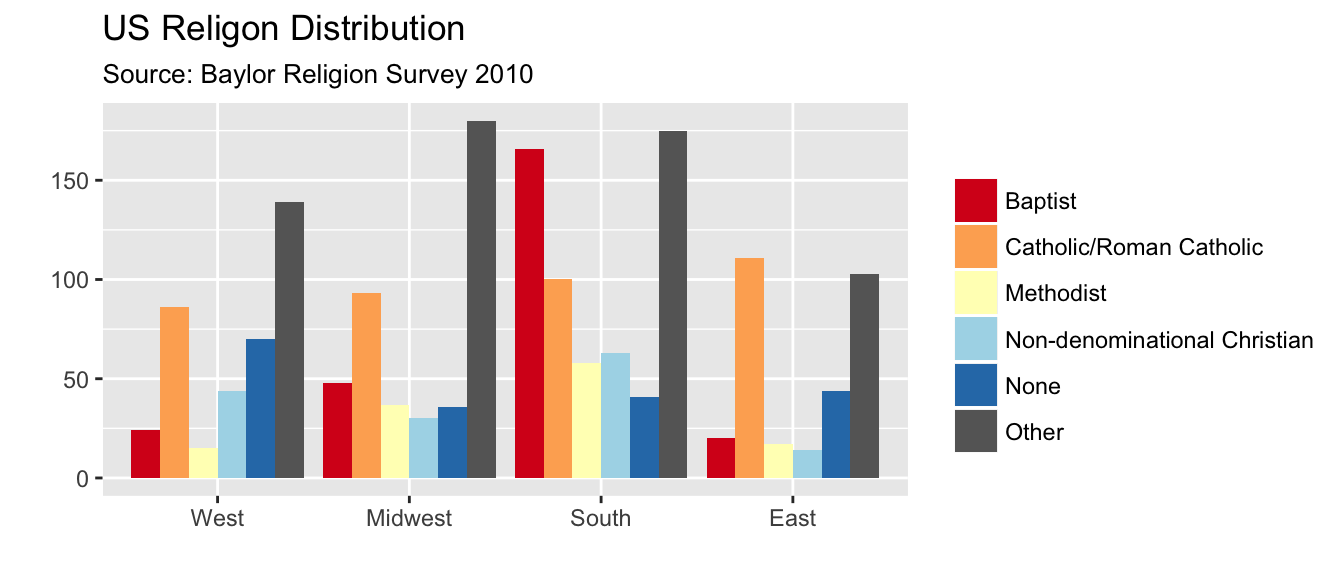
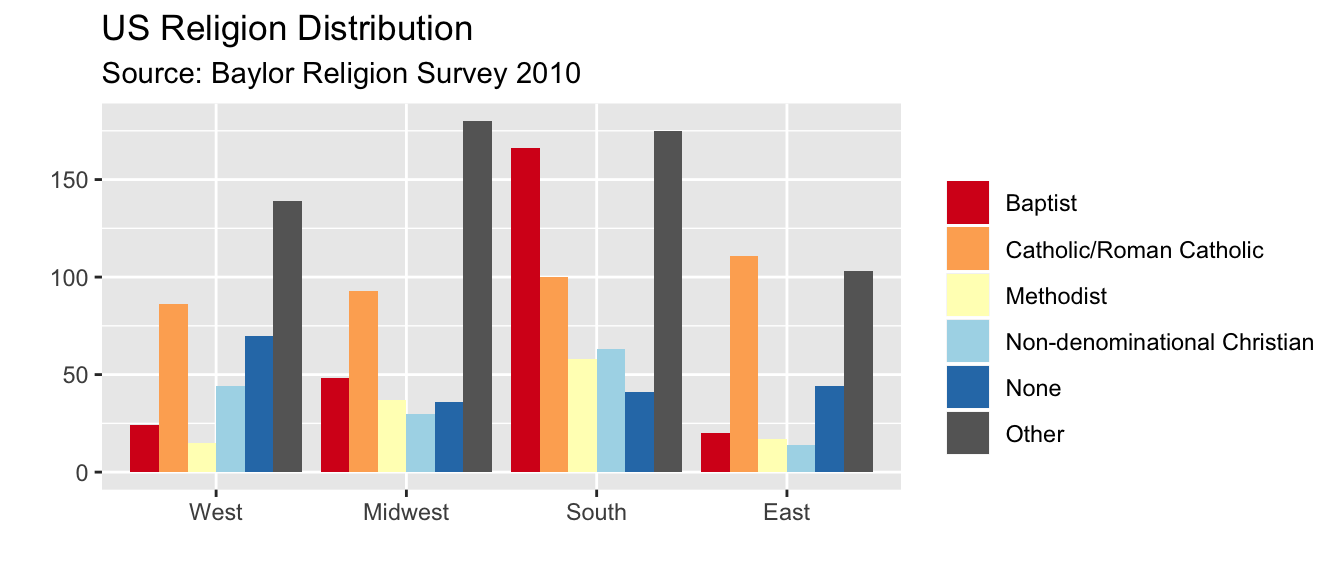
fixed baylor typo

diff --git a/public/code/baylor/index.html b/public/code/baylor/index.html
@@ -61,11 +61,11 @@ require(&quot;tidyverse&quot;) require(&quot;foreign&quot;) require(&quot;psych&
 
 
     
-    <link rel="stylesheet" href="/css/reset.css?t=2018-07-24%2010%3a38%3a47.052135%20-0400%20EDT%20m%3d%2b0.781692476">
-    <link rel="stylesheet" href="/css/pygments.css?t=2018-07-24%2010%3a38%3a47.052135%20-0400%20EDT%20m%3d%2b0.781692476">
-    <link rel="stylesheet" href="/css/main.css?t=2018-07-24%2010%3a38%3a47.052135%20-0400%20EDT%20m%3d%2b0.781692476">
+    <link rel="stylesheet" href="/css/reset.css?t=2018-07-24%2014%3a15%3a22.74899%20-0400%20EDT%20m%3d%2b0.782393326">
+    <link rel="stylesheet" href="/css/pygments.css?t=2018-07-24%2014%3a15%3a22.74899%20-0400%20EDT%20m%3d%2b0.782393326">
+    <link rel="stylesheet" href="/css/main.css?t=2018-07-24%2014%3a15%3a22.74899%20-0400%20EDT%20m%3d%2b0.782393326">
     
-        <link rel="stylesheet" href="/css/override.css?t=2018-07-24%2010%3a38%3a47.052135%20-0400%20EDT%20m%3d%2b0.781692476">
+        <link rel="stylesheet" href="/css/override.css?t=2018-07-24%2014%3a15%3a22.74899%20-0400%20EDT%20m%3d%2b0.782393326">
     
 
 
@@ -281,7 +281,7 @@ bay3$rel_family &lt;- recode(bay3$rel_family, (&quot;&#39;No religion [Skip to Q
 <pre class="r"><code>final &lt;- ggplot(bay3, aes(region)) + 
   geom_bar(aes(fill=rel_family), stat = &quot;count&quot;, position=&quot;dodge&quot;) +
   scale_fill_brewer(palette= &quot;RdYlBu&quot;, name=&quot;&quot;) + 
-  labs(x=&quot;&quot;, y=&quot;&quot;, title=&quot;US Religon Distribution&quot;, subtitle= &quot;Source: Baylor Religion Survey 2010&quot;)
+  labs(x=&quot;&quot;, y=&quot;&quot;, title=&quot;US Religion Distribution&quot;, subtitle= &quot;Source: Baylor Religion Survey 2010&quot;)
 final</code></pre>
 <p><img src="/code/baylor_files/figure-html/unnamed-chunk-11-1.png" width="672" /> Maybe we want to order our regional categories in a more geographical order, so West is on the left, and East is on the right. This can be accomplished by reordering the factor levels.</p>
 <pre class="r"><code>bay3$region &lt;- factor(bay3$region, levels = c(&quot;West&quot;,&quot;Midwest&quot;,&quot;South&quot;, &quot;East&quot;))</code></pre>
@@ -293,7 +293,7 @@ colors &lt;- c(colors, &quot;grey40&quot;)</code></pre>
 <pre class="r"><code>final2 &lt;- ggplot(bay3, aes(region)) + 
   geom_bar(aes(fill=rel_family), stat = &quot;count&quot;, position=&quot;dodge&quot;) +
   scale_fill_manual(values=colors, name=&quot;&quot;) + 
-  labs(x=&quot;&quot;, y=&quot;&quot;, title=&quot;US Religon Distribution&quot;, subtitle= &quot;Source: Baylor Religion Survey 2010&quot;)
+  labs(x=&quot;&quot;, y=&quot;&quot;, title=&quot;US Religion Distribution&quot;, subtitle= &quot;Source: Baylor Religion Survey 2010&quot;)
 final2</code></pre>
 <p><img src="/code/baylor_files/figure-html/unnamed-chunk-14-1.png" width="672" /></p>
 <p>If you want to super-customize your graph, you can save various themes or templates to use with ggplot. Below I’ve created a dark template named <code>johntheme1</code>.</p>
@@ -353,7 +353,7 @@ colors &lt;- c(colors, &quot;grey40&quot;)
 final2 &lt;- ggplot(bay, aes(region)) + 
   geom_bar(aes(fill=rel_family), stat = &quot;count&quot;, position=&quot;dodge&quot;) +
   scale_fill_manual(values=colors, name=&quot;&quot;) + 
-  labs(x=&quot;&quot;, y=&quot;&quot;, title=&quot;US Religon Distribution\nBaylor Religion Survey 2010&quot;)
+  labs(x=&quot;&quot;, y=&quot;&quot;, title=&quot;US Religion Distribution\nBaylor Religion Survey 2010&quot;)
 final2</code></pre>
 <hr />
 <p><a href="/xcode/">Code Home</a></p>

diff --git a/content/code/baylor.html b/content/code/baylor.html
@@ -96,7 +96,7 @@ bay3$rel_family &lt;- recode(bay3$rel_family, (&quot;&#39;No religion [Skip to Q
 <pre class="r"><code>final &lt;- ggplot(bay3, aes(region)) + 
   geom_bar(aes(fill=rel_family), stat = &quot;count&quot;, position=&quot;dodge&quot;) +
   scale_fill_brewer(palette= &quot;RdYlBu&quot;, name=&quot;&quot;) + 
-  labs(x=&quot;&quot;, y=&quot;&quot;, title=&quot;US Religon Distribution&quot;, subtitle= &quot;Source: Baylor Religion Survey 2010&quot;)
+  labs(x=&quot;&quot;, y=&quot;&quot;, title=&quot;US Religion Distribution&quot;, subtitle= &quot;Source: Baylor Religion Survey 2010&quot;)
 final</code></pre>
 <p><img src="/code/baylor_files/figure-html/unnamed-chunk-11-1.png" width="672" /> Maybe we want to order our regional categories in a more geographical order, so West is on the left, and East is on the right. This can be accomplished by reordering the factor levels.</p>
 <pre class="r"><code>bay3$region &lt;- factor(bay3$region, levels = c(&quot;West&quot;,&quot;Midwest&quot;,&quot;South&quot;, &quot;East&quot;))</code></pre>
@@ -108,7 +108,7 @@ colors &lt;- c(colors, &quot;grey40&quot;)</code></pre>
 <pre class="r"><code>final2 &lt;- ggplot(bay3, aes(region)) + 
   geom_bar(aes(fill=rel_family), stat = &quot;count&quot;, position=&quot;dodge&quot;) +
   scale_fill_manual(values=colors, name=&quot;&quot;) + 
-  labs(x=&quot;&quot;, y=&quot;&quot;, title=&quot;US Religon Distribution&quot;, subtitle= &quot;Source: Baylor Religion Survey 2010&quot;)
+  labs(x=&quot;&quot;, y=&quot;&quot;, title=&quot;US Religion Distribution&quot;, subtitle= &quot;Source: Baylor Religion Survey 2010&quot;)
 final2</code></pre>
 <p><img src="/code/baylor_files/figure-html/unnamed-chunk-14-1.png" width="672" /></p>
 <p>If you want to super-customize your graph, you can save various themes or templates to use with ggplot. Below I’ve created a dark template named <code>johntheme1</code>.</p>
@@ -168,7 +168,7 @@ colors &lt;- c(colors, &quot;grey40&quot;)
 final2 &lt;- ggplot(bay, aes(region)) + 
   geom_bar(aes(fill=rel_family), stat = &quot;count&quot;, position=&quot;dodge&quot;) +
   scale_fill_manual(values=colors, name=&quot;&quot;) + 
-  labs(x=&quot;&quot;, y=&quot;&quot;, title=&quot;US Religon Distribution\nBaylor Religion Survey 2010&quot;)
+  labs(x=&quot;&quot;, y=&quot;&quot;, title=&quot;US Religion Distribution\nBaylor Religion Survey 2010&quot;)
 final2</code></pre>
 <hr />
 <p><a href="/xcode/">Code Home</a></p>

diff --git a/public/blog/ajs_v123n4/index.html b/public/blog/ajs_v123n4/index.html
@@ -59,11 +59,11 @@ Summary: The author uses ethnographic data to examine the role of emotions in th
 
 
     
-    <link rel="stylesheet" href="/css/reset.css?t=2018-07-24%2010%3a38%3a47.041685%20-0400%20EDT%20m%3d%2b0.771242111">
-    <link rel="stylesheet" href="/css/pygments.css?t=2018-07-24%2010%3a38%3a47.041685%20-0400%20EDT%20m%3d%2b0.771242111">
-    <link rel="stylesheet" href="/css/main.css?t=2018-07-24%2010%3a38%3a47.041685%20-0400%20EDT%20m%3d%2b0.771242111">
+    <link rel="stylesheet" href="/css/reset.css?t=2018-07-24%2014%3a15%3a22.732258%20-0400%20EDT%20m%3d%2b0.765661653">
+    <link rel="stylesheet" href="/css/pygments.css?t=2018-07-24%2014%3a15%3a22.732258%20-0400%20EDT%20m%3d%2b0.765661653">
+    <link rel="stylesheet" href="/css/main.css?t=2018-07-24%2014%3a15%3a22.732258%20-0400%20EDT%20m%3d%2b0.765661653">
     
-        <link rel="stylesheet" href="/css/override.css?t=2018-07-24%2010%3a38%3a47.041685%20-0400%20EDT%20m%3d%2b0.771242111">
+        <link rel="stylesheet" href="/css/override.css?t=2018-07-24%2014%3a15%3a22.732258%20-0400%20EDT%20m%3d%2b0.765661653">
     
 
 

diff --git a/public/research/country-music/index.html b/public/research/country-music/index.html
@@ -59,11 +59,11 @@ ABSTRACT: This article examines how artistic communities use linguistic codes to
 
 
     
-    <link rel="stylesheet" href="/css/reset.css?t=2018-07-24%2010%3a38%3a47.052228%20-0400%20EDT%20m%3d%2b0.781784911">
-    <link rel="stylesheet" href="/css/pygments.css?t=2018-07-24%2010%3a38%3a47.052228%20-0400%20EDT%20m%3d%2b0.781784911">
-    <link rel="stylesheet" href="/css/main.css?t=2018-07-24%2010%3a38%3a47.052228%20-0400%20EDT%20m%3d%2b0.781784911">
+    <link rel="stylesheet" href="/css/reset.css?t=2018-07-24%2014%3a15%3a22.748861%20-0400%20EDT%20m%3d%2b0.782263643">
+    <link rel="stylesheet" href="/css/pygments.css?t=2018-07-24%2014%3a15%3a22.748861%20-0400%20EDT%20m%3d%2b0.782263643">
+    <link rel="stylesheet" href="/css/main.css?t=2018-07-24%2014%3a15%3a22.748861%20-0400%20EDT%20m%3d%2b0.782263643">
     
-        <link rel="stylesheet" href="/css/override.css?t=2018-07-24%2010%3a38%3a47.052228%20-0400%20EDT%20m%3d%2b0.781784911">
+        <link rel="stylesheet" href="/css/override.css?t=2018-07-24%2014%3a15%3a22.748861%20-0400%20EDT%20m%3d%2b0.782263643">
     
 
 

diff --git a/public/research/sympathetic-leviathan/index.html b/public/research/sympathetic-leviathan/index.html
@@ -59,11 +59,11 @@ ABSTRACT: While events are central to the sociology of the state, natural disast
 
 
     
-    <link rel="stylesheet" href="/css/reset.css?t=2018-07-24%2010%3a38%3a47.059134%20-0400%20EDT%20m%3d%2b0.788691218">
-    <link rel="stylesheet" href="/css/pygments.css?t=2018-07-24%2010%3a38%3a47.059134%20-0400%20EDT%20m%3d%2b0.788691218">
-    <link rel="stylesheet" href="/css/main.css?t=2018-07-24%2010%3a38%3a47.059134%20-0400%20EDT%20m%3d%2b0.788691218">
+    <link rel="stylesheet" href="/css/reset.css?t=2018-07-24%2014%3a15%3a22.753351%20-0400%20EDT%20m%3d%2b0.786753915">
+    <link rel="stylesheet" href="/css/pygments.css?t=2018-07-24%2014%3a15%3a22.753351%20-0400%20EDT%20m%3d%2b0.786753915">
+    <link rel="stylesheet" href="/css/main.css?t=2018-07-24%2014%3a15%3a22.753351%20-0400%20EDT%20m%3d%2b0.786753915">
     
-        <link rel="stylesheet" href="/css/override.css?t=2018-07-24%2010%3a38%3a47.059134%20-0400%20EDT%20m%3d%2b0.788691218">
+        <link rel="stylesheet" href="/css/override.css?t=2018-07-24%2014%3a15%3a22.753351%20-0400%20EDT%20m%3d%2b0.786753915">
     
 
 

diff --git a/public/teaching/sor/index.html b/public/teaching/sor/index.html
@@ -59,11 +59,11 @@ This course offers an introduction to the sociological study of religion. As a d
 
 
     
-    <link rel="stylesheet" href="/css/reset.css?t=2018-07-24%2010%3a38%3a47.057387%20-0400%20EDT%20m%3d%2b0.786944611">
-    <link rel="stylesheet" href="/css/pygments.css?t=2018-07-24%2010%3a38%3a47.057387%20-0400%20EDT%20m%3d%2b0.786944611">
-    <link rel="stylesheet" href="/css/main.css?t=2018-07-24%2010%3a38%3a47.057387%20-0400%20EDT%20m%3d%2b0.786944611">
+    <link rel="stylesheet" href="/css/reset.css?t=2018-07-24%2014%3a15%3a22.750617%20-0400%20EDT%20m%3d%2b0.784020397">
+    <link rel="stylesheet" href="/css/pygments.css?t=2018-07-24%2014%3a15%3a22.750617%20-0400%20EDT%20m%3d%2b0.784020397">
+    <link rel="stylesheet" href="/css/main.css?t=2018-07-24%2014%3a15%3a22.750617%20-0400%20EDT%20m%3d%2b0.784020397">
     
-        <link rel="stylesheet" href="/css/override.css?t=2018-07-24%2010%3a38%3a47.057387%20-0400%20EDT%20m%3d%2b0.786944611">
+        <link rel="stylesheet" href="/css/override.css?t=2018-07-24%2014%3a15%3a22.750617%20-0400%20EDT%20m%3d%2b0.784020397">
     
 
 

diff --git a/public/xcode/index.html b/public/xcode/index.html
@@ -67,11 +67,11 @@ Copyright &copy; 2018 John A. Bernau " />
 
 
     
-    <link rel="stylesheet" href="/css/reset.css?t=2018-07-24%2010%3a38%3a47.049506%20-0400%20EDT%20m%3d%2b0.779062913">
-    <link rel="stylesheet" href="/css/pygments.css?t=2018-07-24%2010%3a38%3a47.049506%20-0400%20EDT%20m%3d%2b0.779062913">
-    <link rel="stylesheet" href="/css/main.css?t=2018-07-24%2010%3a38%3a47.049506%20-0400%20EDT%20m%3d%2b0.779062913">
+    <link rel="stylesheet" href="/css/reset.css?t=2018-07-24%2014%3a15%3a22.741762%20-0400%20EDT%20m%3d%2b0.775165236">
+    <link rel="stylesheet" href="/css/pygments.css?t=2018-07-24%2014%3a15%3a22.741762%20-0400%20EDT%20m%3d%2b0.775165236">
+    <link rel="stylesheet" href="/css/main.css?t=2018-07-24%2014%3a15%3a22.741762%20-0400%20EDT%20m%3d%2b0.775165236">
     
-        <link rel="stylesheet" href="/css/override.css?t=2018-07-24%2010%3a38%3a47.049506%20-0400%20EDT%20m%3d%2b0.779062913">
+        <link rel="stylesheet" href="/css/override.css?t=2018-07-24%2014%3a15%3a22.741762%20-0400%20EDT%20m%3d%2b0.775165236">
     
 
 

diff --git a/public/xteaching/index.html b/public/xteaching/index.html
@@ -83,11 +83,11 @@ SOC 389: Cont. Chinese Culture" />
 
 
     
-    <link rel="stylesheet" href="/css/reset.css?t=2018-07-24%2010%3a38%3a47.057319%20-0400%20EDT%20m%3d%2b0.786875838">
-    <link rel="stylesheet" href="/css/pygments.css?t=2018-07-24%2010%3a38%3a47.057319%20-0400%20EDT%20m%3d%2b0.786875838">
-    <link rel="stylesheet" href="/css/main.css?t=2018-07-24%2010%3a38%3a47.057319%20-0400%20EDT%20m%3d%2b0.786875838">
+    <link rel="stylesheet" href="/css/reset.css?t=2018-07-24%2014%3a15%3a22.751318%20-0400%20EDT%20m%3d%2b0.784721247">
+    <link rel="stylesheet" href="/css/pygments.css?t=2018-07-24%2014%3a15%3a22.751318%20-0400%20EDT%20m%3d%2b0.784721247">
+    <link rel="stylesheet" href="/css/main.css?t=2018-07-24%2014%3a15%3a22.751318%20-0400%20EDT%20m%3d%2b0.784721247">
     
-        <link rel="stylesheet" href="/css/override.css?t=2018-07-24%2010%3a38%3a47.057319%20-0400%20EDT%20m%3d%2b0.786875838">
+        <link rel="stylesheet" href="/css/override.css?t=2018-07-24%2014%3a15%3a22.751318%20-0400%20EDT%20m%3d%2b0.784721247">
     
 
 

diff --git a/public/code/dataviz2/index.html b/public/code/dataviz2/index.html
@@ -69,11 +69,11 @@ Part 2 includes:
 
 
     
-    <link rel="stylesheet" href="/css/reset.css?t=2018-07-24%2010%3a38%3a47.049699%20-0400%20EDT%20m%3d%2b0.779256872">
-    <link rel="stylesheet" href="/css/pygments.css?t=2018-07-24%2010%3a38%3a47.049699%20-0400%20EDT%20m%3d%2b0.779256872">
-    <link rel="stylesheet" href="/css/main.css?t=2018-07-24%2010%3a38%3a47.049699%20-0400%20EDT%20m%3d%2b0.779256872">
+    <link rel="stylesheet" href="/css/reset.css?t=2018-07-24%2014%3a15%3a22.744525%20-0400%20EDT%20m%3d%2b0.777927732">
+    <link rel="stylesheet" href="/css/pygments.css?t=2018-07-24%2014%3a15%3a22.744525%20-0400%20EDT%20m%3d%2b0.777927732">
+    <link rel="stylesheet" href="/css/main.css?t=2018-07-24%2014%3a15%3a22.744525%20-0400%20EDT%20m%3d%2b0.777927732">
     
-        <link rel="stylesheet" href="/css/override.css?t=2018-07-24%2010%3a38%3a47.049699%20-0400%20EDT%20m%3d%2b0.779256872">
+        <link rel="stylesheet" href="/css/override.css?t=2018-07-24%2014%3a15%3a22.744525%20-0400%20EDT%20m%3d%2b0.777927732">
     
 
 

diff --git a/public/code/dataviz3/index.html b/public/code/dataviz3/index.html
@@ -71,11 +71,11 @@ Part 3 includes:
 
 
     
-    <link rel="stylesheet" href="/css/reset.css?t=2018-07-24%2010%3a38%3a47.051968%20-0400%20EDT%20m%3d%2b0.781524969">
-    <link rel="stylesheet" href="/css/pygments.css?t=2018-07-24%2010%3a38%3a47.051968%20-0400%20EDT%20m%3d%2b0.781524969">
-    <link rel="stylesheet" href="/css/main.css?t=2018-07-24%2010%3a38%3a47.051968%20-0400%20EDT%20m%3d%2b0.781524969">
+    <link rel="stylesheet" href="/css/reset.css?t=2018-07-24%2014%3a15%3a22.744524%20-0400%20EDT%20m%3d%2b0.777927260">
+    <link rel="stylesheet" href="/css/pygments.css?t=2018-07-24%2014%3a15%3a22.744524%20-0400%20EDT%20m%3d%2b0.777927260">
+    <link rel="stylesheet" href="/css/main.css?t=2018-07-24%2014%3a15%3a22.744524%20-0400%20EDT%20m%3d%2b0.777927260">
     
-        <link rel="stylesheet" href="/css/override.css?t=2018-07-24%2010%3a38%3a47.051968%20-0400%20EDT%20m%3d%2b0.781524969">
+        <link rel="stylesheet" href="/css/override.css?t=2018-07-24%2014%3a15%3a22.744524%20-0400%20EDT%20m%3d%2b0.777927260">
     
 
 

diff --git a/public/code/dataviz4/index.html b/public/code/dataviz4/index.html
@@ -69,11 +69,11 @@ Part 4 includes:
 
 
     
-    <link rel="stylesheet" href="/css/reset.css?t=2018-07-24%2010%3a38%3a47.051955%20-0400%20EDT%20m%3d%2b0.781512522">
-    <link rel="stylesheet" href="/css/pygments.css?t=2018-07-24%2010%3a38%3a47.051955%20-0400%20EDT%20m%3d%2b0.781512522">
-    <link rel="stylesheet" href="/css/main.css?t=2018-07-24%2010%3a38%3a47.051955%20-0400%20EDT%20m%3d%2b0.781512522">
+    <link rel="stylesheet" href="/css/reset.css?t=2018-07-24%2014%3a15%3a22.746143%20-0400%20EDT%20m%3d%2b0.779545253">
+    <link rel="stylesheet" href="/css/pygments.css?t=2018-07-24%2014%3a15%3a22.746143%20-0400%20EDT%20m%3d%2b0.779545253">
+    <link rel="stylesheet" href="/css/main.css?t=2018-07-24%2014%3a15%3a22.746143%20-0400%20EDT%20m%3d%2b0.779545253">
     
-        <link rel="stylesheet" href="/css/override.css?t=2018-07-24%2010%3a38%3a47.051955%20-0400%20EDT%20m%3d%2b0.781512522">
+        <link rel="stylesheet" href="/css/override.css?t=2018-07-24%2014%3a15%3a22.746143%20-0400%20EDT%20m%3d%2b0.779545253">
     
 
 

diff --git a/public/code/dataviz1/index.html b/public/code/dataviz1/index.html
@@ -73,11 +73,11 @@ Part 1 includes:
 
 
     
-    <link rel="stylesheet" href="/css/reset.css?t=2018-07-24%2010%3a38%3a47.049506%20-0400%20EDT%20m%3d%2b0.779062914">
-    <link rel="stylesheet" href="/css/pygments.css?t=2018-07-24%2010%3a38%3a47.049506%20-0400%20EDT%20m%3d%2b0.779062914">
-    <link rel="stylesheet" href="/css/main.css?t=2018-07-24%2010%3a38%3a47.049506%20-0400%20EDT%20m%3d%2b0.779062914">
+    <link rel="stylesheet" href="/css/reset.css?t=2018-07-24%2014%3a15%3a22.74223%20-0400%20EDT%20m%3d%2b0.775633373">
+    <link rel="stylesheet" href="/css/pygments.css?t=2018-07-24%2014%3a15%3a22.74223%20-0400%20EDT%20m%3d%2b0.775633373">
+    <link rel="stylesheet" href="/css/main.css?t=2018-07-24%2014%3a15%3a22.74223%20-0400%20EDT%20m%3d%2b0.775633373">
     
-        <link rel="stylesheet" href="/css/override.css?t=2018-07-24%2010%3a38%3a47.049506%20-0400%20EDT%20m%3d%2b0.779062914">
+        <link rel="stylesheet" href="/css/override.css?t=2018-07-24%2014%3a15%3a22.74223%20-0400%20EDT%20m%3d%2b0.775633373">
     
 
 
